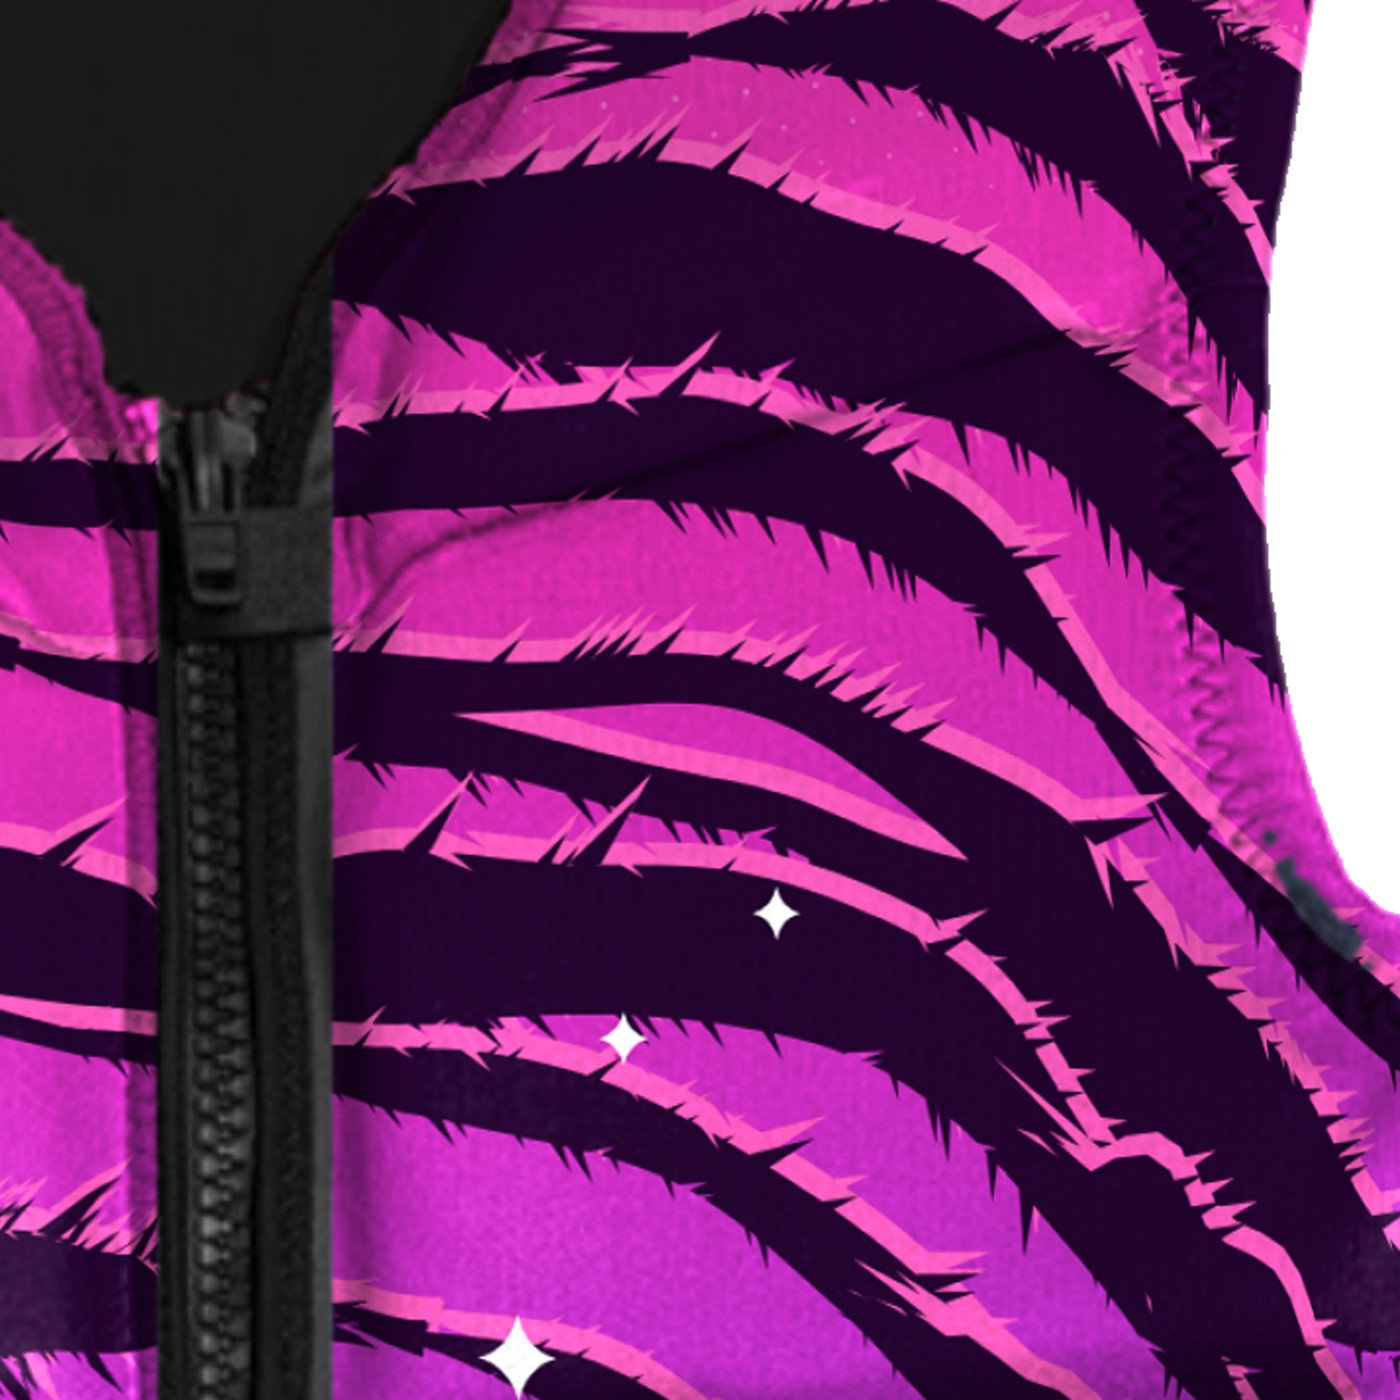
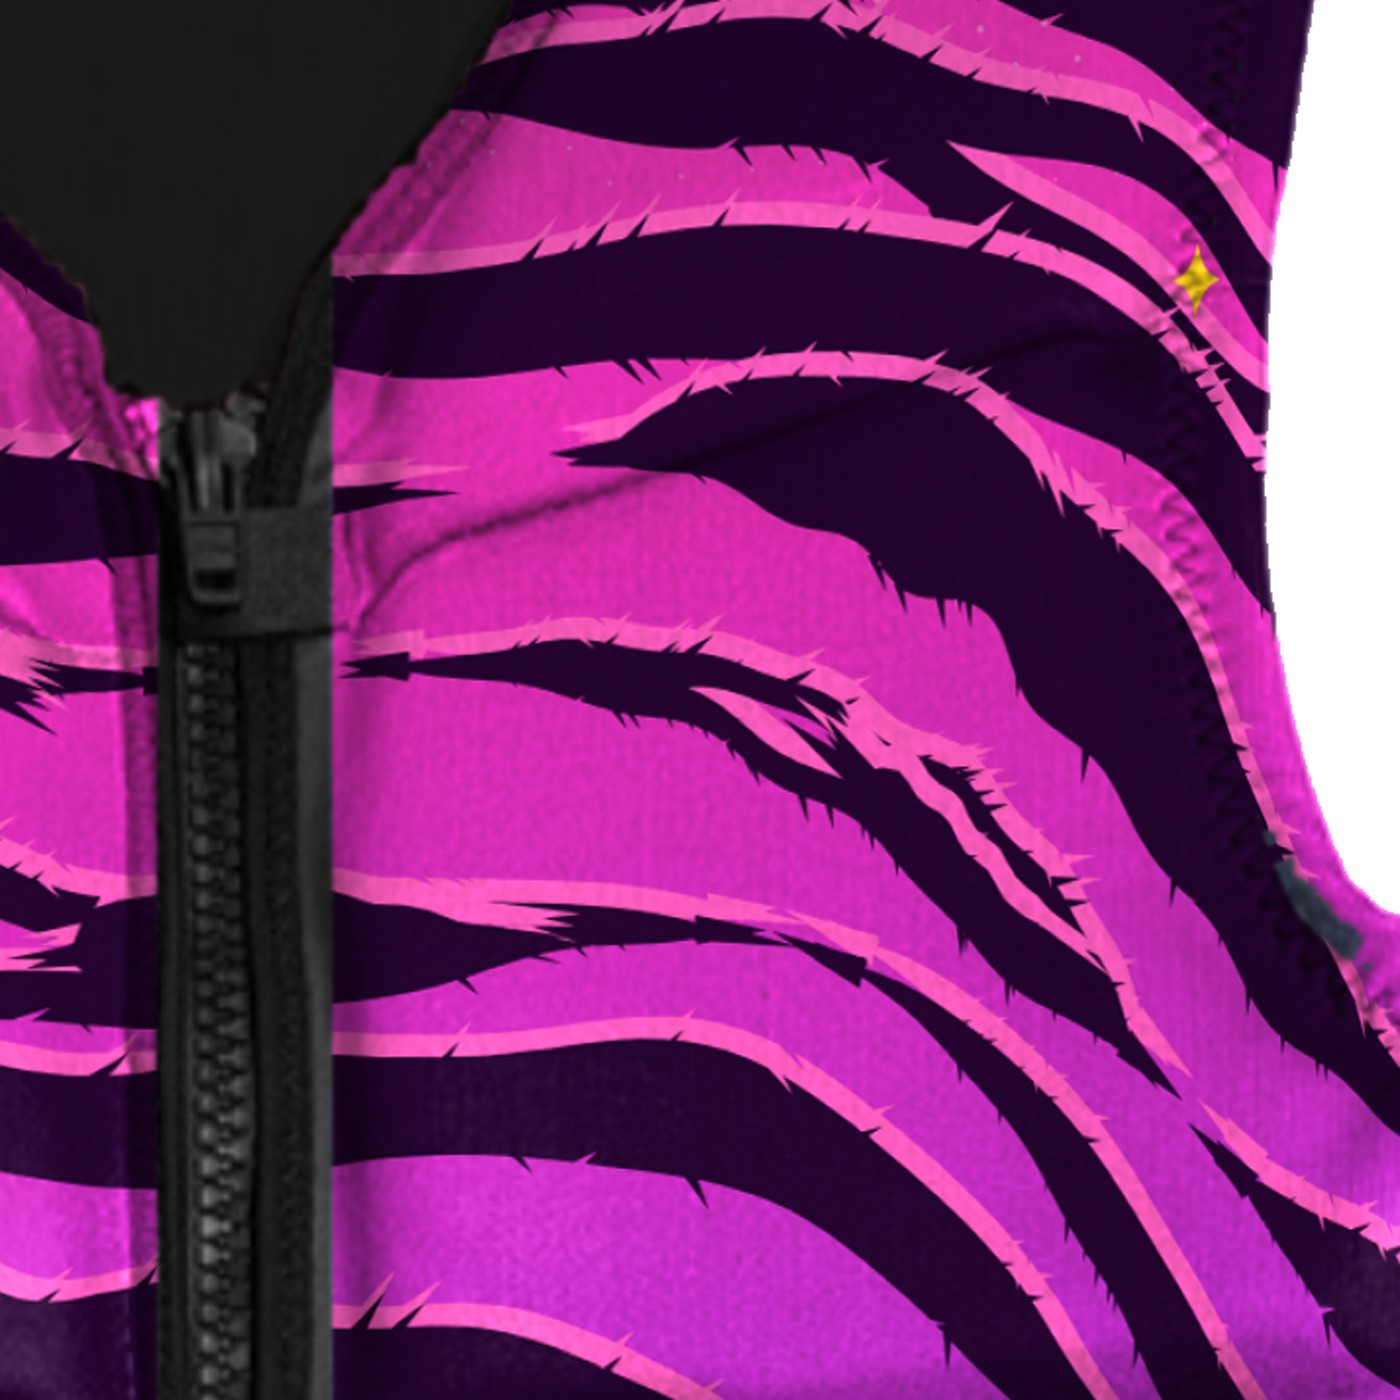
Tiger Fade: subtler fur on stripe edges
Claude-Session: https://claude.ai/code/session_01Fy5H5rMUZMXc2kKTw5zMks

diff --git a/config.js b/config.js
@@ -2,7 +2,7 @@
 // The logo artwork is in /brand (swap those SVG/PNG files if the name changes).
 window.SITE = {
   // Bump this whenever you replace a vest image (same filename) so browsers fetch the new one
-  imgVersion: 10,
+  imgVersion: 11,
 
   brand: {
     name: "Stinger",
